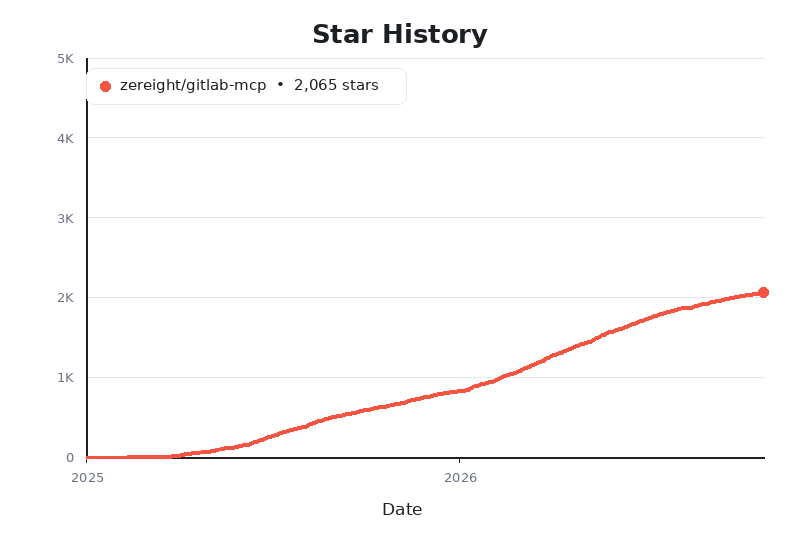
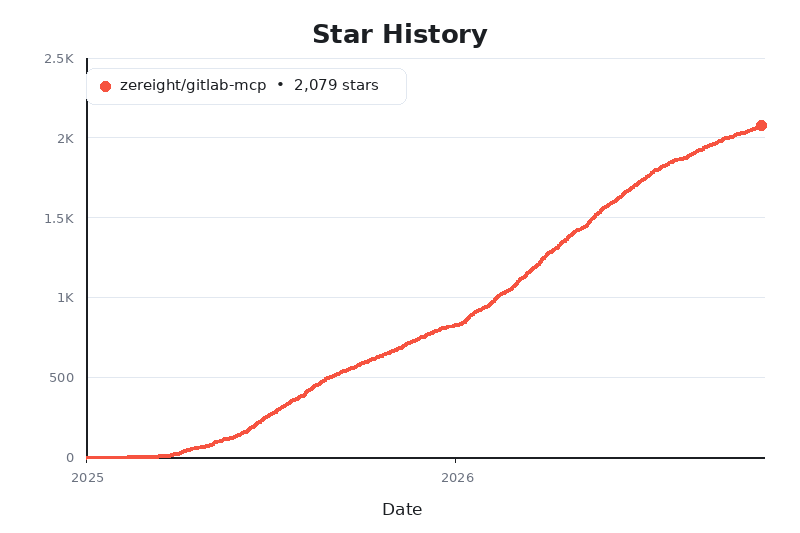
fix(docs): scale Star History Y-axis to the repo's star count
The 1/2/5/10 nice_max ladder jumped ~2K stars to a 5K ceiling, so the
chart looked half-empty. Use denser steps with light headroom and label
fractional thousands like 2.5K.

diff --git a/scripts/generate-star-history.py b/scripts/generate-star-history.py
@@ -91,13 +91,20 @@ def font(size: int, bold: bool = False):
 
 
 def nice_max(value: int) -> int:
+    """Pick a Y-axis top just above ``value``, without 1-2-5 jumps that waste space.
+
+    The old 1/2/5/10 ladder mapped ~2001–5000 stars onto a 5K ceiling, so a
+    ~2K repo looked half-empty. Prefer denser steps (…, 2, 2.5, 3, 4, 5, …)
+    with ~8% headroom so the line fills most of the plot.
+    """
     if value <= 0:
         return 1
-    exp = 10 ** math.floor(math.log10(value))
-    for step in (1, 2, 5, 10):
-        top = step * exp
-        if top >= value:
-            return top
+    target = math.ceil(value * 1.08)
+    exp = 10 ** math.floor(math.log10(target))
+    for step in (1, 1.25, 1.5, 2, 2.5, 3, 4, 5, 6, 8, 10):
+        top = int(step * exp)
+        if top >= target:
+            return max(top, value)
     return 10 * exp
 
 
@@ -123,7 +130,12 @@ def draw(stars: list[dt.datetime]) -> None:
         val = round(max_stars * i / 5)
         yy = y(val)
         d.line((MARGIN_L, yy, WIDTH - MARGIN_R, yy), fill=GRID, width=1)
-        label = f"{val // 1000}K" if val >= 1000 and val % 1000 == 0 else str(val)
+        if val >= 1000 and val % 1000 == 0:
+            label = f"{val // 1000}K"
+        elif val >= 1000 and val % 100 == 0:
+            label = f"{val / 1000:g}K"
+        else:
+            label = str(val)
         bbox = d.textbbox((0, 0), label, font=f_tick)
         d.text((MARGIN_L - 12 - (bbox[2] - bbox[0]), yy - 8), label, fill=MUTED, font=f_tick)
     d.line((MARGIN_L, MARGIN_T, MARGIN_L, HEIGHT - MARGIN_B), fill=INK, width=2)
